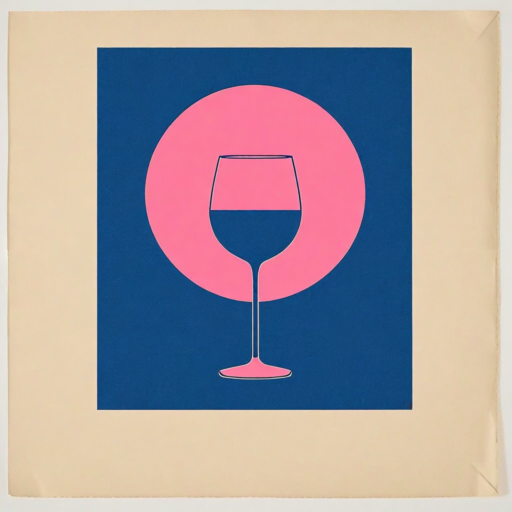
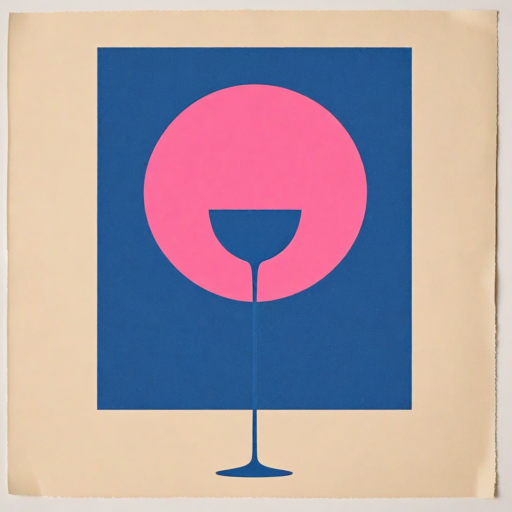
fix: Gallery image sizing and regenerate 2 riso illustrations
Remove explicit width/height HTML attributes from gallery img tags
that conflicted with CSS width:100% + aspect-ratio:1, causing
non-square rendering.

Regenerate riso illustrations for lillet-spritz and
whiskey-sour-acid-adjusted-oj via Nova Canvas.

diff --git a/illustrations-riso.html b/illustrations-riso.html
@@ -66,7 +66,7 @@ permalink: /illustrations-riso/
 {% if file.extname == ".png" %}
 <div class="illus-card">
 <a href="{{ file.path | replace: '/gen-riso/', '/r/' | replace: '.png', '' | relative_url }}">
-<img src="{{ file.path | relative_url }}" alt="{{ file.basename }}" width="180" height="180" loading="lazy" decoding="async" onload="this.classList.add('loaded')">
+<img src="{{ file.path | relative_url }}" alt="{{ file.basename }}" loading="lazy" decoding="async" onload="this.classList.add('loaded')">
 </a>
 <div class="illus-label"><a href="{{ file.path | replace: '/assets/illustrations/gen-riso/', '/r/' | replace: '.png', '' | relative_url }}">{{ file.basename }}</a></div>
 </div>

diff --git a/illustrations.html b/illustrations.html
@@ -48,7 +48,7 @@ permalink: /illustrations/
 {% assign desc = site.data.illustrations[slug] %}
 <div class="illus-card">
 <a href="{{ '/r/' | append: slug | relative_url }}">
-<img src="{{ file.path | relative_url }}" alt="{{ slug }}" width="180" height="180" loading="lazy" decoding="async">
+<img src="{{ file.path | relative_url }}" alt="{{ slug }}" loading="lazy" decoding="async">
 </a>
 <div class="illus-label"><a href="{{ '/r/' | append: slug | relative_url }}">{{ slug }}</a></div>
 {% if desc %}
